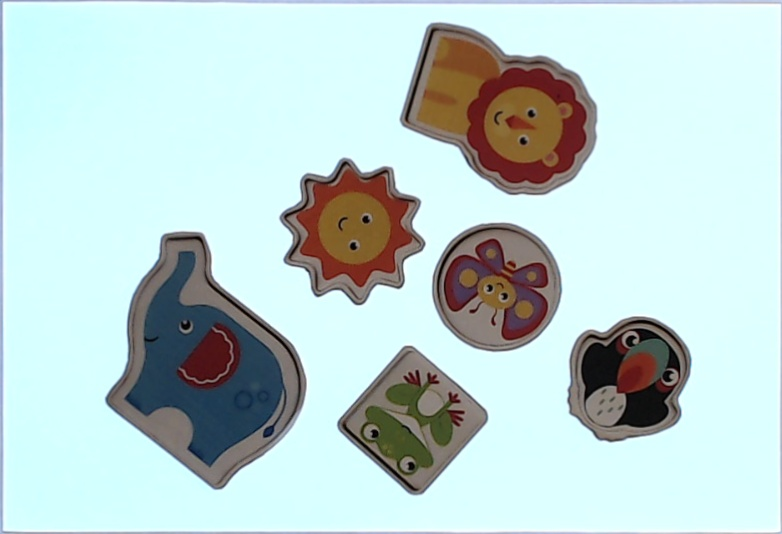
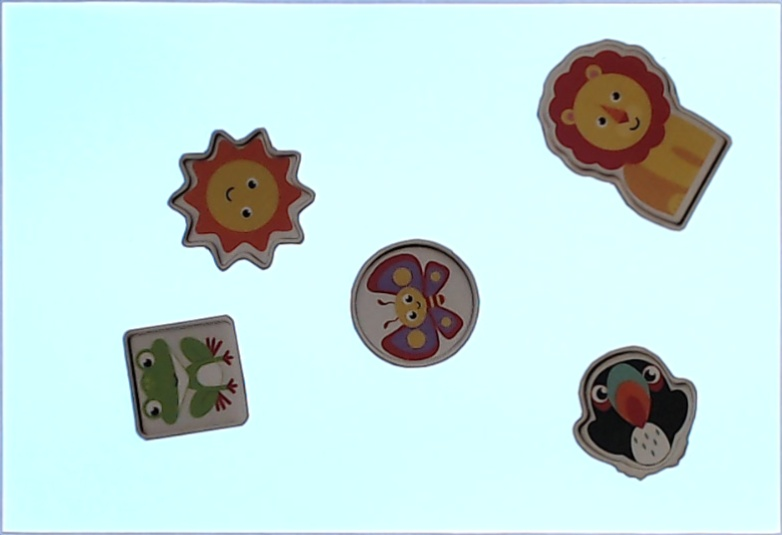
rotation

diff --git a/ObjectDetection/MathManager.py b/ObjectDetection/MathManager.py
@@ -59,11 +59,9 @@ class MathManager:
 
     @staticmethod
     def rotatePoint(p, midpoint, a):
-        x0, y0 = midpoint
-        x1, y1 = p
-        x2 = ((x1 - x0) * math.cos(a)) - ((y1 - y0) * math.sin(a)) + x0
-        y2 = ((x1 - x0) * math.sin(a)) + ((y1 - y0) * math.cos(a)) + y0
-        return x2, y2
+        x = ((p[0] - midpoint[0]) * math.cos(a)) - ((p[1] - midpoint[1]) * math.sin(a)) + midpoint[0]
+        y = ((p[0] - midpoint[0]) * math.sin(a)) + ((p[1] - midpoint[1]) * math.cos(a)) + midpoint[1]
+        return x, y
 
     @staticmethod
     def midpoint(p1, p2):
@@ -117,39 +115,6 @@ class MathManager:
     def calcFocalLength(KNOWN_DISTANCE, areaofInterest_width_px=0.0, areaofInterest_width_cm=0.0):
         return (areaofInterest_width_px * KNOWN_DISTANCE) / areaofInterest_width_cm
 
-    def getRealWorldMap(self, img):
-        table_real_x_cm = 36.5
-
-        table_x = img.shape[1]
-        table_y = img.shape[0]
-        print("table_x: {}px".format(table_x))
-        print("table_y: {}px".format(table_y))
-
-        pixelsPerMetric = self.getPixelPerMetrix(img)
-
-        pice_height = 2.5 * pixelsPerMetric
-        print("pice_height: {}mm".format(pice_height / pixelsPerMetric))
-        print("pice_height: {}px".format(pice_height))
-
-        focallength =  self.getFocalLength()
-        camera_height = self.getCameraDistance(table_real_x_cm, focallength, table_x)
-        print("camera_height: {}cm".format(camera_height))
-        camera_height = camera_height * pixelsPerMetric
-
-        alpha = (math.atan(camera_height/(table_x / 2)))
-        beta = (math.atan(camera_height/(table_y / 2)))
-        print("alpha: {}°".format(math.degrees(alpha)))
-        print("beta: {}°".format(math.degrees(beta)))
-
-        pice_camera_distance = camera_height - pice_height
-
-        table_x_transformed = int(round(pice_camera_distance / math.tan(alpha), 0))*2
-        table_y_transformed = int(round(pice_camera_distance / math.tan(beta), 0))*2
-        print("table_x_transformed: {}px".format(table_x_transformed))
-        print("table_y_transformed: {}px".format(table_y_transformed))
-
-        return table_x_transformed, table_y_transformed
-
     def movePointByDistance(self, p, s, a, img):
         new_p = int(math.sqrt(math.pow((s + p[0]), 2))), int(math.sqrt(math.pow((s + p[1]), 2)))
         cv2.circle(img, new_p, 5,(0, 0, 0), -1)
@@ -159,43 +124,43 @@ class MathManager:
         (tl, tr, br, bl) = box
         return self.getAngleBetweenLines(br, bl, (0, br[1]))
 
-    def getPiceRotation(self, ctr, id, img):
-        box = self.getMinAreaBoxPoint(ctr)
-        boxrotation = self.getMinAreaBoxRotation(box)
-        dimA, dimB = self.getPiceDimension(ctr, img)
-        self.getPiceOrientation(box)
-        if id == 0: # Elefant
-            if self.getPiceOrientation(box):
-                return boxrotation + 12 +90
-            else:
-                return boxrotation + 12
-
-        if id == 1: # Frosch
-            return boxrotation
-        if id == 2: # Lowe
-            if self.getPiceOrientation(box):
-                return boxrotation + 5
-            else:
-                return boxrotation + 5 + 90
-        if id == 3: # Schmetterling
-            return boxrotation
-        if id == 4: # Sonne
-            return boxrotation - 90
-        if id == 5: # Vogel
-            return boxrotation - 42
-
-    def getPiceOrientation(self, box):
-        (tl, tr, br, bl) = box
-        x = self.getPointDistance(tl, bl)
-        y = self.getPointDistance(tr, bl)
-        if x > y:
-            return True
-        else:
-            return False
-
-
+    @staticmethod
+    def findIntersection(p1, p2, p3, p4):
+        px = ((p1[0]*p2[1]-p1[1]*p2[0])*(p3[0]-p4[0])-(p1[0]-p2[0])*(p3[0]*p4[1]-p3[1]*p4[0])) / \
+            ((p1[0]-p2[0])*(p3[1]-p4[1])-(p1[1]-p2[1])*(p3[0]-p4[0]))
+        py = ((p1[0]*p2[1]-p1[1]*p2[0])*(p3[1]-p4[1])-(p1[1]-p2[1])*(p3[0]*p4[1]-p3[1]*p4[0])) / \
+            ((p1[0]-p2[0])*(p3[1]-p4[1])-(p1[1]-p2[1])*(p3[0]-p4[0]))
+        return px, py
 
     @staticmethod
     def getCameraDistance(knownWidth, focalLength, perWidth):
         # compute and return the distance from the maker to the camera
         return (knownWidth * focalLength) / perWidth
+
+    def rotateContur(self, ctr, angle, midpoint):
+        ctr_rotated = ctr
+        for i, c in enumerate(ctr):
+            print(c[0])
+            ctr_rotated[i] = self.rotatePoint(c[0], midpoint, angle)
+        return ctr_rotated
+
+
+    def getNormedContour(self, midpoint, normedctr):
+        normedmidpoint = self.getPiceMidpoint(normedctr)
+        ctr = normedctr
+        for i, c in enumerate(normedctr):
+            ctr[i] = [(midpoint[0] - normedmidpoint[0]) + c[0][0], (midpoint[1] - normedmidpoint[1]) + c[0][1]]
+        return ctr
+
+    def getRotation(self, ctr, midpoint, normctr):
+        normctr = self.getNormedContour(midpoint, normctr)
+
+        (tl, tr, br, bl) = self.getMinAreaBoxPoint(ctr)
+        (ntl, ntr, nbr, nbl) = self.getMinAreaBoxPoint(normctr)
+
+        distance = self.getPointDistance(tr, ntr)
+
+
+
+
+

diff --git a/ObjectDetection/PiceManager.py b/ObjectDetection/PiceManager.py
@@ -29,8 +29,12 @@ class PiceManager:
                 midpoint = MathManager.getPiceMidpoint(ctr)
                 midpointmm = MathManager().getPointToMM(img_input, midpoint)
                 classifierID, id = Classifire().Classifier(extractPiceClassification)
-                rotation = MathManager().getPiceRotation(ctr, id, image)
+                normedctr = self.getContour(CameraManager().getImageFilebyID(classifierID))
+                rotation = 0 # MathManager().getPiceRotation(ctr, id, image)
                 dimension = MathManager().getPiceDimension(ctr, image)
+
+                a = MathManager.getNormedContour(midpoint, MathManager.getPiceMidpoint(normedctr), normedctr)
+                cv2.drawContours(image, [a], 0, (0, 0, 255), 1)
 
                 # correct Rotation
                 extractPiceClassification = imutils.rotate_bound(extractPiceClassification, rotation)
@@ -49,9 +53,8 @@ class PiceManager:
     @staticmethod
     def getContour(img_thresh):
         cnts = cv2.findContours(img_thresh, cv2.RETR_LIST, cv2.CHAIN_APPROX_NONE)[0]
-
         for i, ctr in enumerate(cnts):
-            if i == 0:
+            if i == len(cnts) -1:
                 pass
             else:
                 return ctr

diff --git a/ObjectDetection/Main.py b/ObjectDetection/Main.py
@@ -36,4 +36,4 @@ class Main:
 
 
 if __name__ == '__main__':
-    Main().startDetection(1, 0)
+    Main().startDetection(variant=1, imgid=1)
